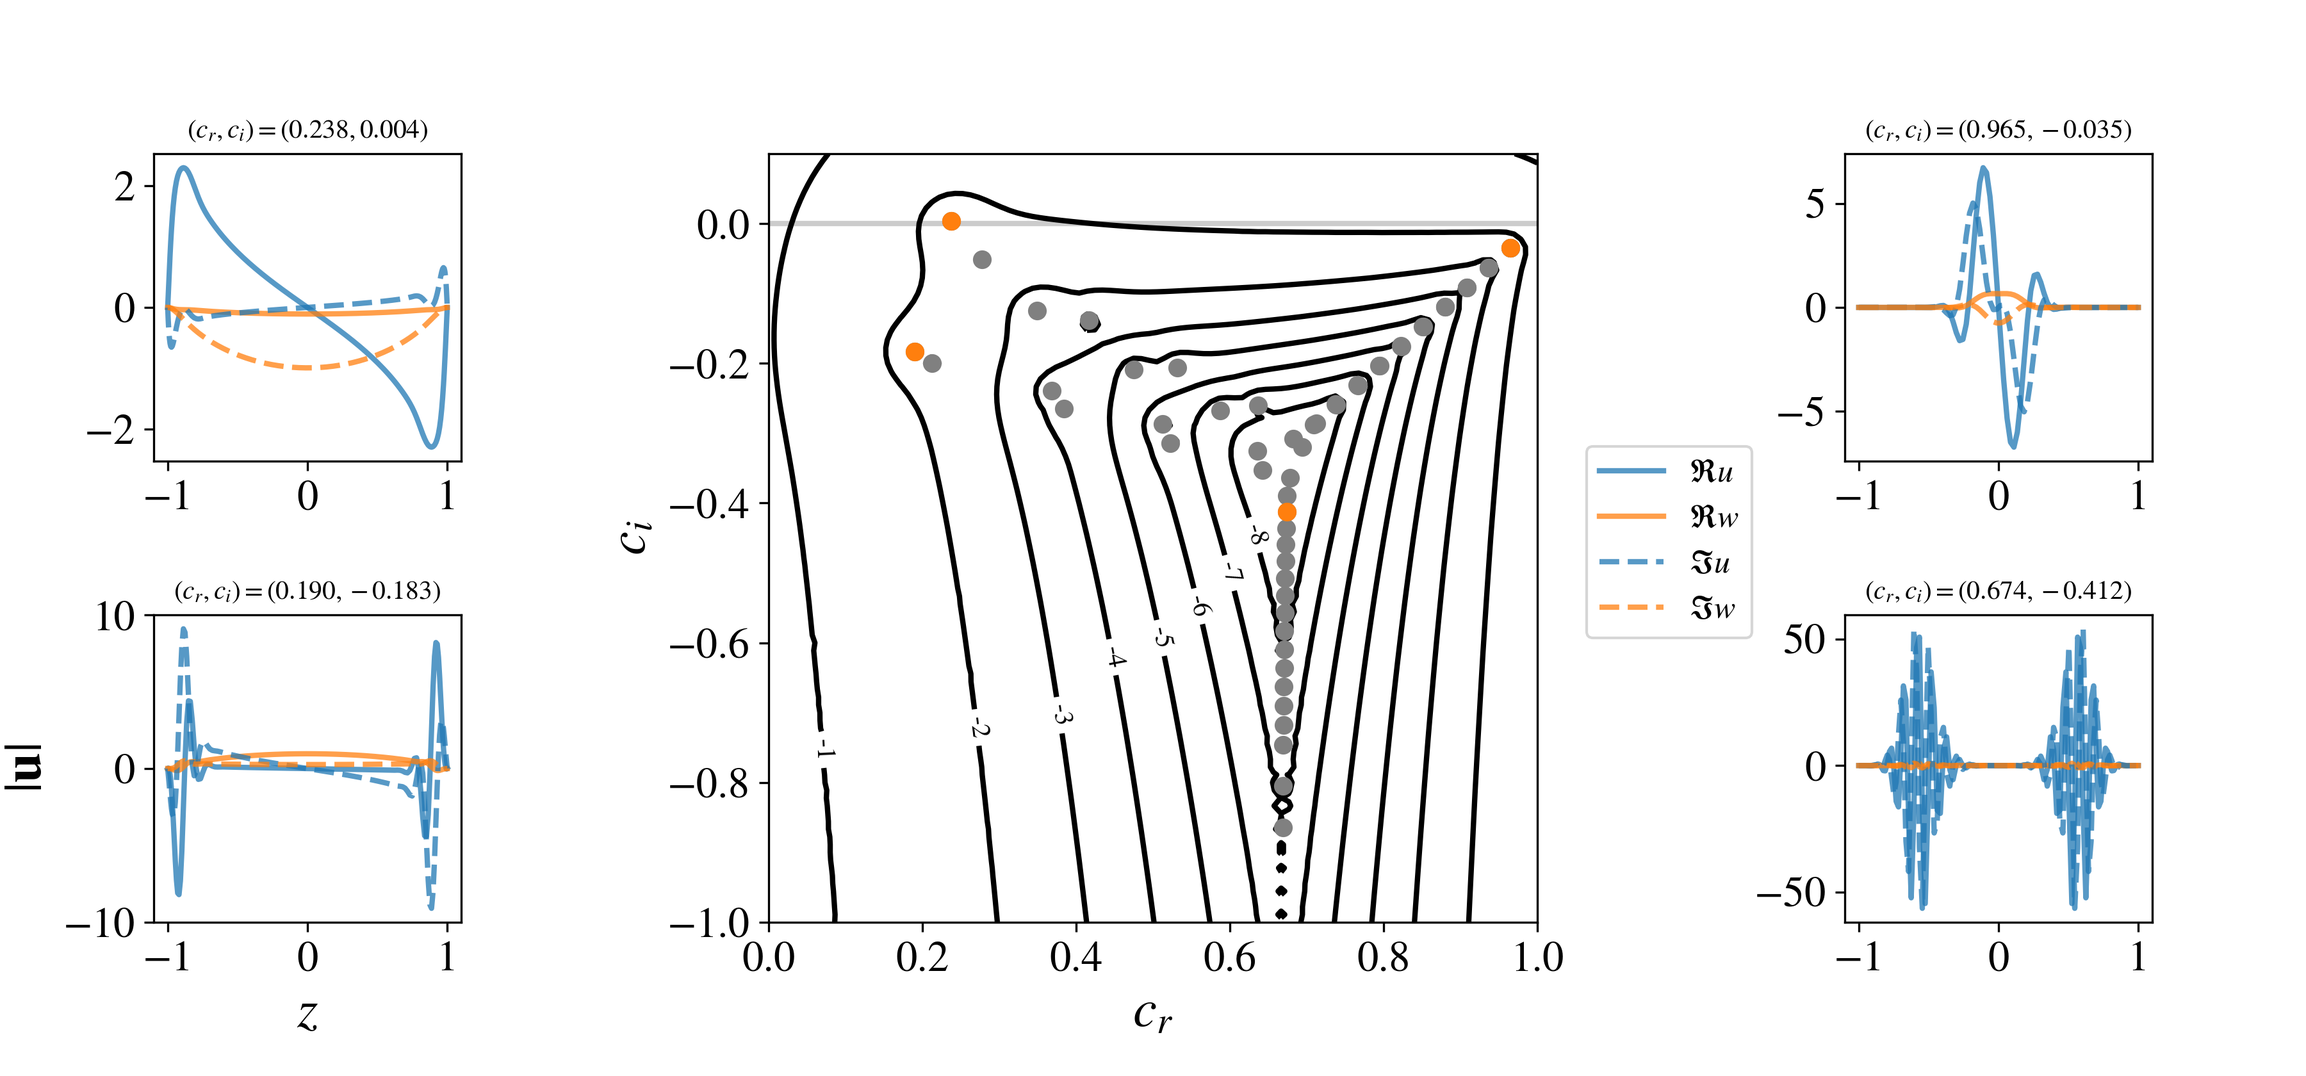
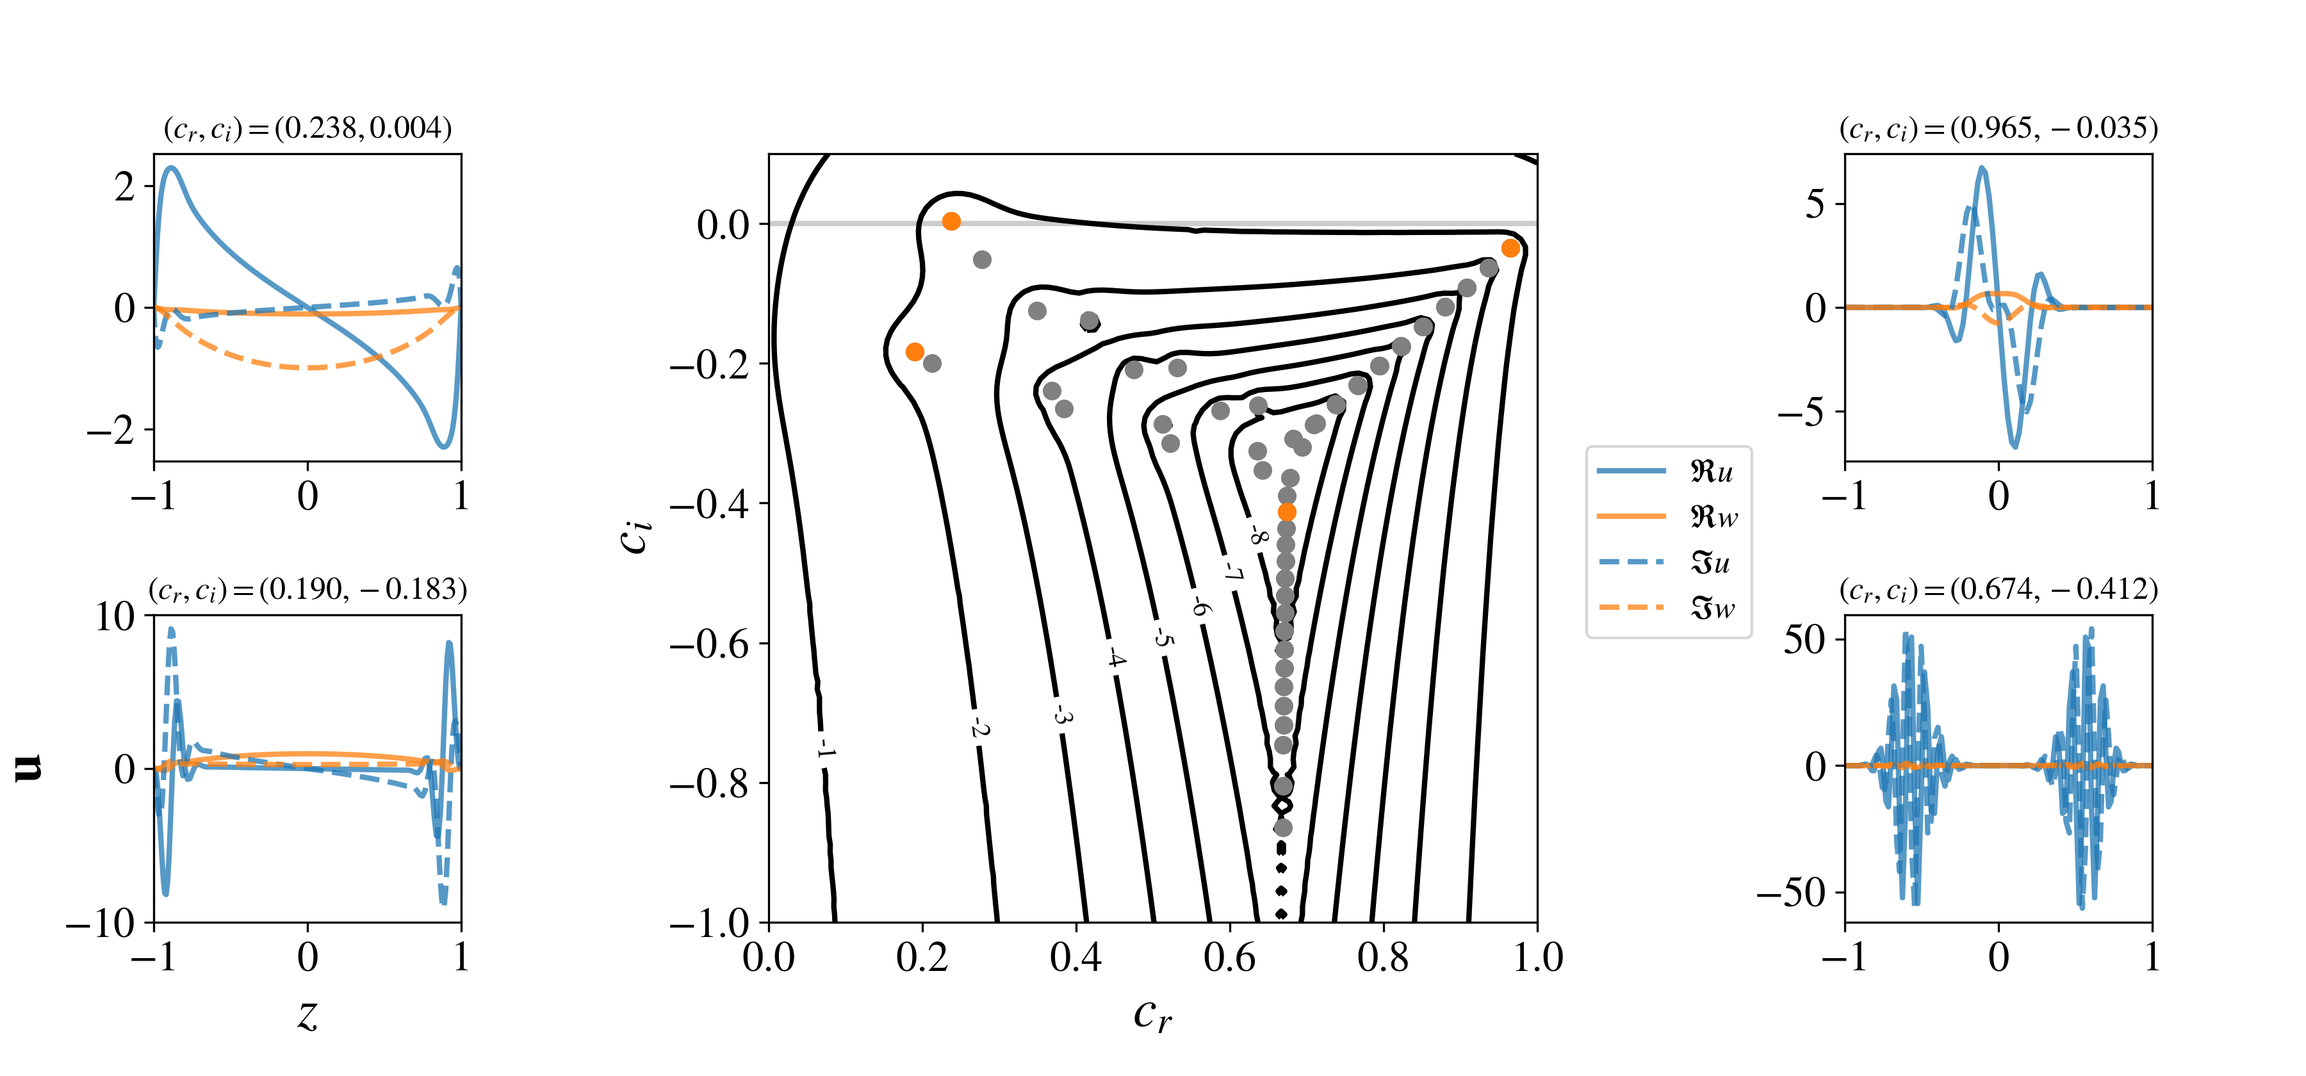
Updates
* added Geoff's new section on pseudospectra
* responded to Evan's comments
* updated affiliations and ORCID

diff --git a/JOSS-paper/plot_pseudospectra_figure.py b/JOSS-paper/plot_pseudospectra_figure.py
@@ -101,9 +101,10 @@ for i, m in enumerate(modes):
     mode_axes[i].plot(z, state['u']['g'].imag/norm, label=r'$\Im{u}$',color=colors[0], alpha=0.75, linestyle='dashed')
     mode_axes[i].plot(z, state['w']['g'].imag/norm, label=r'$\Im{w}$',color=colors[1], alpha=0.75, linestyle='dashed')
 
-    mode_axes[i].set_title(r'$(c_r, c_i) = ({:4.3f},{:4.3f})$'.format(evalue.real, evalue.imag), fontsize=10)
+    mode_axes[i].set_title(r'$(c_r, c_i) = ({:4.3f},{:4.3f})$'.format(evalue.real, evalue.imag), fontsize=12)
+    mode_axes[i].set_xlim(-1,1)
 
 mode_axes[3].legend(bbox_to_anchor=(-0.25,0.1),fontsize=12)
 mode_axes[0].set_xlabel(r"$z$")
-mode_axes[0].set_ylabel(r"$|\mathbf{u}|$")
+mode_axes[0].set_ylabel(r"$\mathbf{u}$")
 fig.savefig("pseudospectra.png", dpi=300)

diff --git a/JOSS-paper/paper.md b/JOSS-paper/paper.md
@@ -12,23 +12,29 @@ authors:
     orcid: 0000-0001-8531-6570
     affiliation: 1
   - name: Keaton J. Burns
+    orcid: 0000-0003-4761-4766
     affiliation: 2
   - name: S. E. Clark
+    orcid: 0000-0002-7633-3376
     affiliation: 3
   - name: Evan H. Anders
+    orcid: 0000-0002-3433-4733
     affiliation: 4
   - name: Benjamin P. Brown
+    orcid: 0000-0001-8935-219X
     affiliation: 5
   - name: Geoffrey M. Vasil
+    orcid: 0000-0002-8902-5030
     affiliation: 6
   - name: Daniel Lecoanet
+    orcid: 0000-0002-7635-9728
     affiliation: "4, 7"
 affiliations:
  - name: Department of Physics and Astronomy, Bates College
    index: 1
  - name: Department of Mathematics, MIT
    index: 2
- - name: Department of Physics, Stanford University
+ - name: School of Natural Sciences, Institute for Advanced Study
    index: 3
  - name: CIERA, Northwestern University
    index: 4
@@ -36,19 +42,19 @@ affiliations:
    index: 5
  - name: School of Mathematics and Statistics, University of Sydney
    index: 6
- - name: Department Engineering Sciences and Applied Mathematics, Northwestern University
+ - name: Department of Engineering Sciences and Applied Mathematics, Northwestern University
    index: 7
 
 date: 21 December 2020
 bibliography: paper.bib
 ---
 # Summary
-In numerous fields of science, engineering, and applied mathematics, eigenvalue analysis is an invaluable tool. It is used to define bases in quantum mechanics, to find orbitals in chemistry, assess the stability of vibrations in fluids and solids, to understand the stability and robustness of time stepping schemes, to understand material properties in the Earth and Sun via seismological techniques, among a plethora of other uses. Concomitantly,  nearly every computational package contains tools for computing eigenvalues for both sparse and dense matrices. However, studying these eigenvalues is not without significant peril: many important systems, particularly discretized partial differential equations (PDEs), are poorly conditioned and not all the numerical eigenvalues reported by such routines are reliable. Additionally, it is far from trivial to start with a set of PDEs and *construct* a discretized matrix in the first place. In order to solve these problems, we present `eigentools`, a Python package that extends the eigenvalue problem (EVP) capabilities of the Dedalus project [@PhysRevResearch.2.023068] to provide a complete analysis toolkit for EVPs.
+In numerous fields of science, engineering, and applied mathematics, eigenvalue analysis is an invaluable tool. It is used to define bases in quantum mechanics, to find orbitals in chemistry, to assess the stability of vibrations in fluids and solids, to understand the stability and robustness of time stepping schemes, and to understand material properties in the Earth and Sun via seismological techniques, among a plethora of other uses. Concomitantly,  nearly every computational package contains tools for computing eigenvalues for both sparse and dense matrices. However, studying these eigenvalues is not without significant peril: many important systems, particularly discretized partial differential equations (PDEs), are poorly conditioned and not all the numerical eigenvalues reported by such routines are reliable. Additionally, it is far from trivial to start with a set of PDEs and *construct* a discretized matrix in the first place. In order to solve these problems, we present `eigentools`, a Python package that extends the eigenvalue problem (EVP) capabilities of the Dedalus project [@PhysRevResearch.2.023068] to provide a complete analysis toolkit for EVPs.
 
 # Statement of need
 Linear stability analysis of PDEs is a fundamental tool in chaotic dynamics, fluid dynamics, biophysics, and many other scientific disciplines. `eigentools` provides a convenient, parallelized interface for both modal and non-modal stability analyses for nearly arbitrary systems of PDEs.
 
-In addition to the traditional venues for eigenvalue analysis such as fluid and solid mechanics, a wide variety of new continuum models is emerging from soft condensed matter, particularly the study of active matter [see @doi:10.1146/annurev-conmatphys-031119-050611; and @2020NatRP.2.181S for recent reviews]. These models are encoded as PDEs and evaluating their stability is important for understanding the rich behavior they exhibit. `eigentools` provides a toolkit that requires very little user input in order to take a model, find robust eigenvalues and eigenmodes, and find critical parameter values for stability. The only thing a user needs to do is find a state to linearize about and cast the PDE in that form. Once the linear PDE is derived, one constructs a Dedalus `EigenvalueProblem` object, and passes that to `eigentools`. `eigentools` provides robust spurious eigenvalue rejection [@boyd2001chebyshev], spectrum and eigenmode visualization, $\epsilon-$pseudospectra, and the ability to project a given eigenmode onto an 2- or 3-dimensional domain and save it as a Dedalus-formatted HDF5 file to use as an initial condition for an initial value problem (i.e. simulation) of the same system. 
+In addition to the traditional venues for eigenvalue analysis such as fluid and solid mechanics, a wide variety of new continuum models is emerging from soft condensed matter, particularly the study of active matter [see @doi:10.1146/annurev-conmatphys-031119-050611; and @2020NatRP.2.181S for recent reviews]. These models are encoded as PDEs and evaluating their stability is important for understanding the rich behavior they exhibit. `eigentools` provides a toolkit that requires very little user input in order to take a model, find robust eigenvalues and eigenmodes, and find critical parameter values for stability. The only thing a user needs to do is find a state to linearize about and write the PDE in terms of it. Once the linear PDE is derived, one constructs a Dedalus `EigenvalueProblem` object, and passes that to `eigentools`. `eigentools` provides robust spurious eigenvalue rejection [@boyd2001chebyshev], spectrum and eigenmode visualization, $\epsilon-$pseudospectra, and the ability to project a given eigenmode onto an 2- or 3-dimensional domain and save it as a Dedalus-formatted HDF5 file to use as an initial condition for an initial value problem (i.e. simulation) of the same system. 
 
 # Critical Parameter finding
 One of the original motivations for `eigentools` was to quickly and easily find critical parameters for eigenvalue stability problems.
@@ -59,17 +65,18 @@ It then interpolates to find the zero crossings of one parameter, and finally mi
 `CriticalFinder` allows the user to choose how "growth" is defined via custom functions; this allows the use of positive imaginary parts (e.g. $e^{\sigma t}$, $\sigma \in \mathbb{C}$), negative real parts (e.g. $e^{i(k x - \omega t)}$, $\omega \in \mathbb{C}$), or any other choice.
 
 \autoref{fig:mri} demonstrates three core features of `eigentools`: the ability to find critical parameters, the ability to use sparse and dense eigenvalue solvers, and the ability to reject spurious eigenvalues.
-In the right panel, the growth rate of the magnetorotational instability (defined as the positive real part of the eigenvalue $\sigma$) is plotted on a $20 \times 20$ grid of magnetic Reynolds number $\mathrm{Rm}$ and wavenumber $Q$, finding the critical values $\mathrm{Rm_c} = 4.88, Q = 0.747$; in \autoref{fig:mri}, we used 4 cores each performing 100 *sparse* eigenvalue solves finding the 15 modes with $\sigma$ closest to zero.
+In the left panel, the growth rate of the magnetorotational instability (defined as the positive real part of the eigenvalue $\sigma$) is plotted on a $20 \times 20$ grid of magnetic Reynolds number $\mathrm{Rm}$ and wavenumber $Q$, finding the critical values $\mathrm{Rm_c} = 4.88, Q = 0.747$; in \autoref{fig:mri}, we used 4 cores each performing 100 *sparse* eigenvalue solves finding the 15 modes with $\sigma$ closest to zero.
 The middle panel shows the spectrum at the critical parameters; this was solved using a *dense* eigenvalue solver to find all modes.
-The unstable mode is a rotationally modified Alfven\'en wave highlighted in red.
-Finally, the rightmost panel shows a plot of the **inverse drift ratio** for both ordinal and nearest comparisons.
-When `eigentools` solves an EVP, by default it will perform mode rejection by solving the same problem twice, once at 1.5 times the resolution (this is user configurable).
+The unstable mode is a rotationally modified Alfvén wave highlighted in red.
+Finally, the rightmost panel shows a plot of the **inverse drift ratio** $1/\delta$ for both ordinal and nearest comparisons.
+When `eigentools` solves an EVP, by default it will perform mode rejection by solving the same problem twice, once at a user specifiable multiple (1.5 by default) of the resolution.
 In order to ascertain which modes are good, the inverse drift ratio is computed one of two ways.
-For simple problems with only one mode family, the *ordinal* method in which the eigenvalues are compared in sorted order.
+For simple problems with only one mode family, one can use the *ordinal* method in which the eigenvalues are compared in sorted order.
 However, the magnetorotational instability has *multiple wave families*.
 By increasing the resolution, the number of resolved modes for each family increases; because of this, one must compare the drift ratios of the *nearest* eigenvalue [for details, see @boyd2001chebyshev].
+The right panel of \autoref{fig:mri} shows both ordinal and nearest drift ratios; by the ordinal criterion, all eigenvalues would be rejected, despite the fact that many eigenvalues are robust.
 
-![Magnetorotational instability. From left to right: growth rates in the $\mathrm{Rm}-Q$, Black line and circles show zero-growth contour. The MRI spectrum at the critical parameters. Inverse drift ratios for modes shown in the spectrum. Those below $10^6$ are rejected according to nearest (blue) and ordinal (orange) criteria.\label{fig:mri}](mri.png)
+![Magnetorotational instability. From left to right: growth rates in the $\mathrm{Rm}-Q$ plane, Black line and circles show zero-growth contour. The MRI spectrum at the critical parameters. Inverse drift ratios for modes shown in the spectrum. Those below $10^6$ are rejected according to nearest (blue) and ordinal (orange) criteria. For this problem, the nearest criterion must be used.\label{fig:mri}](mri.png)
 
 # Output and creation of initial conditions
 
@@ -81,13 +88,24 @@ Using Dedalus's ability to change parameters and resolutions on the fly, we then
 In the left panel of \autoref{fig:rbc}, we see excellent agreement between the growth rate from the non-linear IVP and the initial eigenvalue until non-linearity begins to become important around $t\approx 0.02$.
 
 # Pseudospectra
-One of the most important features of `eigentools` is the ability to calculate $\epsilon-$pseudospectra, a generalization of the spectrum that reveals non-normality of the underlying matrix [@trefethen2005spectra].
-These can be used for non-modal stability analysis in fluid dynamics, and may also play a role in the unusual properties of $\mathcal{PT}-$symmetric quantum mechanics [@doi:10.1063/1.4934378]. The $\epsilon-$pseudospectra was originally developed for standard eigenvalue problems, 
 
-$$\mathbf{L} \mathbf{x} = \lambda \mathbf{x}.$$
+The eigentools package can also solve for the $\varepsilon$--pseudospectra (Trefethen \& Embree, 2005) of *generalized* eigenvalue problems of the form
+\begin{equation}
+L x = \lambda M x
+\end{equation}
+using the recent algorithm given by @doi:10.1137/15M1055012.
+To our knowledge, this is the first open-source system for computing $\epsilon-$pseudospectra for arbitrary generalized EVPs, including those with singular $M$ matrices.
+Such $M$ arise quite commonly in the solution of differential-algebraic equations, which occur any time there is a time-invariant equation in the system ($\nabla \cdot \mathbf{u} = 0$, for example).
+The pseudospectrum shows the sensitivity of the eigenvalue $\lambda$ to a parameter $\varepsilon$ for bounded perturbations in the underlying operators
+\begin{equation}
+L \to L + L', \qquad M \to M + M', \qquad \text{where} \qquad ||L'||, \ || M' || \ < \varepsilon.
+\end{equation}
+The notion of pseudospectra relies on a particular choice of operator norm. `eigentools` allow the user to implement any norm useful for their particular problem, provided it is inherited from an inner product on the underlying vector space:
+\begin{equation}
+||L|| \ = \ \sup_{x\in V} \sqrt{\frac{\left< Lx , L x\right>}{\left<x,x\right>}}.
+\end{equation}
 
-We have implemented a newly developed algorithm [@doi:10.1137/15M1055012] to allow the computation of pseudospectra for differential-algebraic equation (DAE) systems.
-To our knowledge, this is the first publicly available system for computing $\epsilon-$pseudospectra for arbitrary DAEs.
+The pseudospectra identifies the robust parts of the spectrum. Pseudospectra have numerous applications, including non-modal stability analysis in fluid dynamics [@schmid2012stability], locating topological states [@LORING2015383], and helping to understanding the unusual properties of $\mathcal{PT}$--symmetric quantum mechanics [@doi:10.1063/1.4934378]. 
 
 ![Spectrum, pseudospectrum, and four representative eigenmodes for the Orr-Sommerfeld problem, expressed in primitive variables $(u,v)$. The eigenmodes correspond to the eigenvalues highlighted in orange in the middle panel. Pseudospectra contours are labeled by n, representing $10^{n}$.\label{fig:os_pseudo}](pseudospectra.png)
 
@@ -96,8 +114,7 @@ As a twist on the standard problem, we demonstrate Dedalus and `eigentools` abil
 Note that for the four eigenvectors, we plot $u$ and $w$, the stream wise and wall-normal directions, respectively, rather than $w$ and $\eta$, the vorticity as would be the case in the reduced Orr-Sommerfeld form. The solid and dashed lines represent the real and imaginary parts of the eigenvectors, respectively.
 
 # Example
-Here we present an script that computes the spectra and pseudospectra for the classic Orr-Sommerfeld problem. 
-The script produces a simplified version of the center plot in \autoref{fig:os_pseudo}. 
+Here we present a script that computes the spectra and pseudospectra for the Orr-Sommerfeld problem, producing a simplified version of the center plot in \autoref{fig:os_pseudo}. 
 The first block of code sets up the Navier-Stokes equations in Dedalus, making use of its expressive substitution mechanism.
 
 ```python
@@ -106,17 +123,13 @@ from eigentools import Eigenproblem
 import dedalus.public as de
 import numpy as np
 
-# problem parameters
-alpha = 1.
-Re = 10000
-
 # define Navier-Stokes equations in Dedalus
 z = de.Chebyshev('z', 128)
 d = de.Domain([z])
 os = de.EVP(d,['u','w','uz','wz', 'p'],'c')
 
-os.parameters['alpha'] = alpha
-os.parameters['Re'] = Re
+os.parameters['alpha'] = 1.
+os.parameters['Re'] = 10000
 os.substitutions['umean'] = '1 - z**2'
 os.substitutions['umeanz'] = '-2*z'
 os.substitutions['dx(A)'] = '1j*alpha*A' 
@@ -136,10 +149,8 @@ os_EP = Eigenproblem(os)
 
 # define the energy norm 
 def energy_norm(Q1, Q2):
-    u1 = Q1['u']
-    w1 = Q1['w']
-    u2 = Q2['u']
-    w2 = Q2['w']
+    u1, w1 = Q1['u'], Q1['w']
+    u2, w2 = Q2['u'], Q2['w']
     
     field = (np.conj(u1)*u2 + np.conj(w1)*w2).evaluate().integrate()
     return field['g'][0]
@@ -152,26 +163,24 @@ imag_points = np.linspace(-1,0.1, psize)
 os_EP.calc_ps(k, (real_points, imag_points), inner_product=energy_norm)
 
 # plot
-P_CS = plt.contour(os_EP.ps_real,os_EP.ps_imag, np.log10(os_EP.pseudospectrum),levels=np.arange(-8,0),linestyles='solid')
+P_CS = plt.contour(os_EP.ps_real,os_EP.ps_imag, np.log10(os_EP.pseudospectrum),
+                   levels=np.arange(-8,0),linestyles='solid')
 plt.scatter(os_EP.evalues.real, os_EP.evalues.imag,color='blue',marker='x')
-plt.xlim(0,1)
-plt.ylim(-1,0.1)
-plt.xlabel(r"$c_r$")
-plt.ylabel(r"$c_i$")
-plt.tight_layout()
-plt.savefig("OS_pseudospectra.png", dpi=300)
+plt.xlim(0,1); plt.ylim(-1,0.1)
+plt.xlabel(r"$c_r$"); plt.ylabel(r"$c_i$")
+plt.tight_layout(); plt.savefig("OS_pseudospectra.png", dpi=300)
 ```
 
 # Related Work
 There are a few other packages dedicated to the automatic construction of eigenvalue problems, including [Chebfun](https://www.chebfun.org/), which can also produce pseudospectra. Chebfun, while itself released under the standard 3-Clause BSD license, is written in the proprietary MATLAB language.
-For computing spectra and pseudospectra for existing matrices, the venerable [`EigTool`](https://github.com/eigtool/eigtool) package is another open-source option again written in MATLAB.
-It does not feature parallelism nor the ability to construct eigenvalue problems.
+For computing spectra and pseudospectra for existing matrices, the venerable [`EigTool`](https://github.com/eigtool/eigtool) package is another open-source option, also written in MATLAB.
+It does not feature parallelism nor the ability to construct matrices from PDEs.
 `EigTool` has also been ported to the open-source Julia language in the [`Pseudospectra.jl`](https://github.com/RalphAS/Pseudospectra.jl) package.
 
-`eigentools` has been used in several papers including @2017ApJ.841.1C; @2017ApJ.841.2C; @2020RSPSA.47690622O; @PhysRevResearch.2.023068; and @2020arXiv201112300L.
+`eigentools` has been used in several papers, including @2017ApJ.841.1C; @2017ApJ.841.2C; @2017PhRvF.2h3501A; @2019ApJ.872.138A; @2020RSPSA.47690622O; @PhysRevResearch.2.023068; and @2020arXiv201112300L.
 
 # Acknowledgments
-Eigentools was developed with support from the Research Corporation under award Scialog Collaborative Award (TDA) ID# 24231.
+Eigentools was developed with support from the Research Corporation under the Scialog Collaborative Award (TDA) ID# 24231, 
 
 # References
 
@@ -195,5 +204,9 @@ Eigentools was developed with support from the Research Corporation under award 
  -->
 <!--  LocalWords:  calc xlim xlabel ylabel savefig png Chebfun jl TDA
  -->
-<!--  LocalWords:  EigTool arXiv Scialog
+<!--  LocalWords:  EigTool arXiv Scialog Alfvén varepsilon Trefethen
+ -->
+<!--  LocalWords:  Embree nabla cdot qquad sqrt frac Lx arange
+ -->
+<!--  LocalWords:  linestyles
  -->
